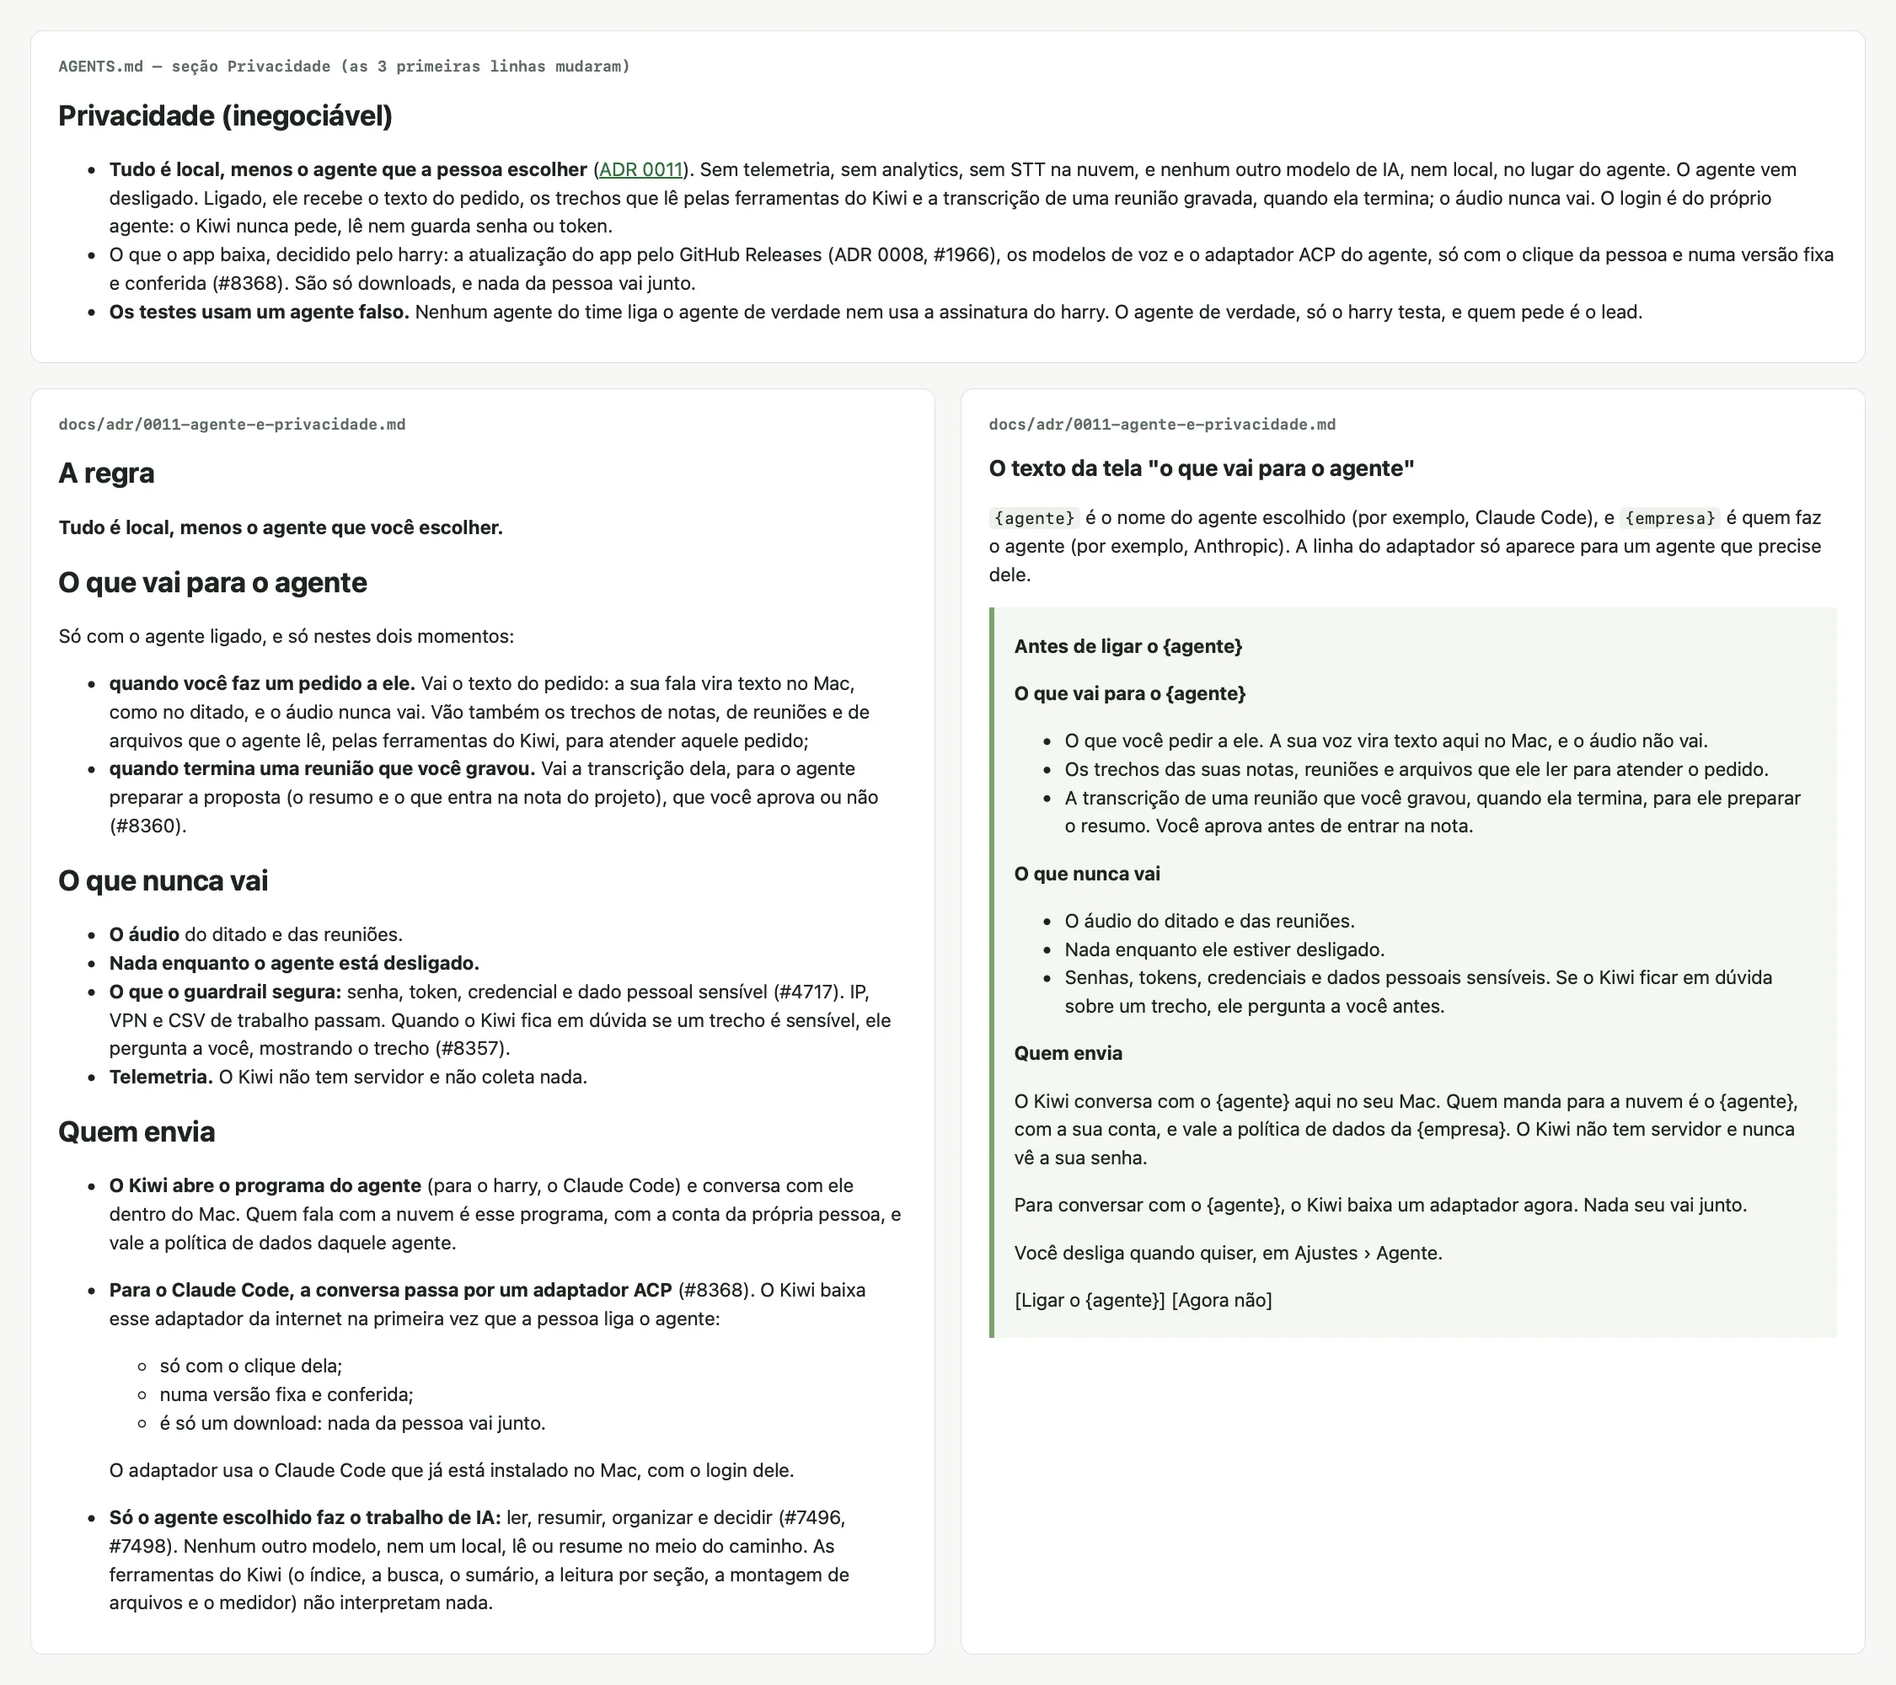
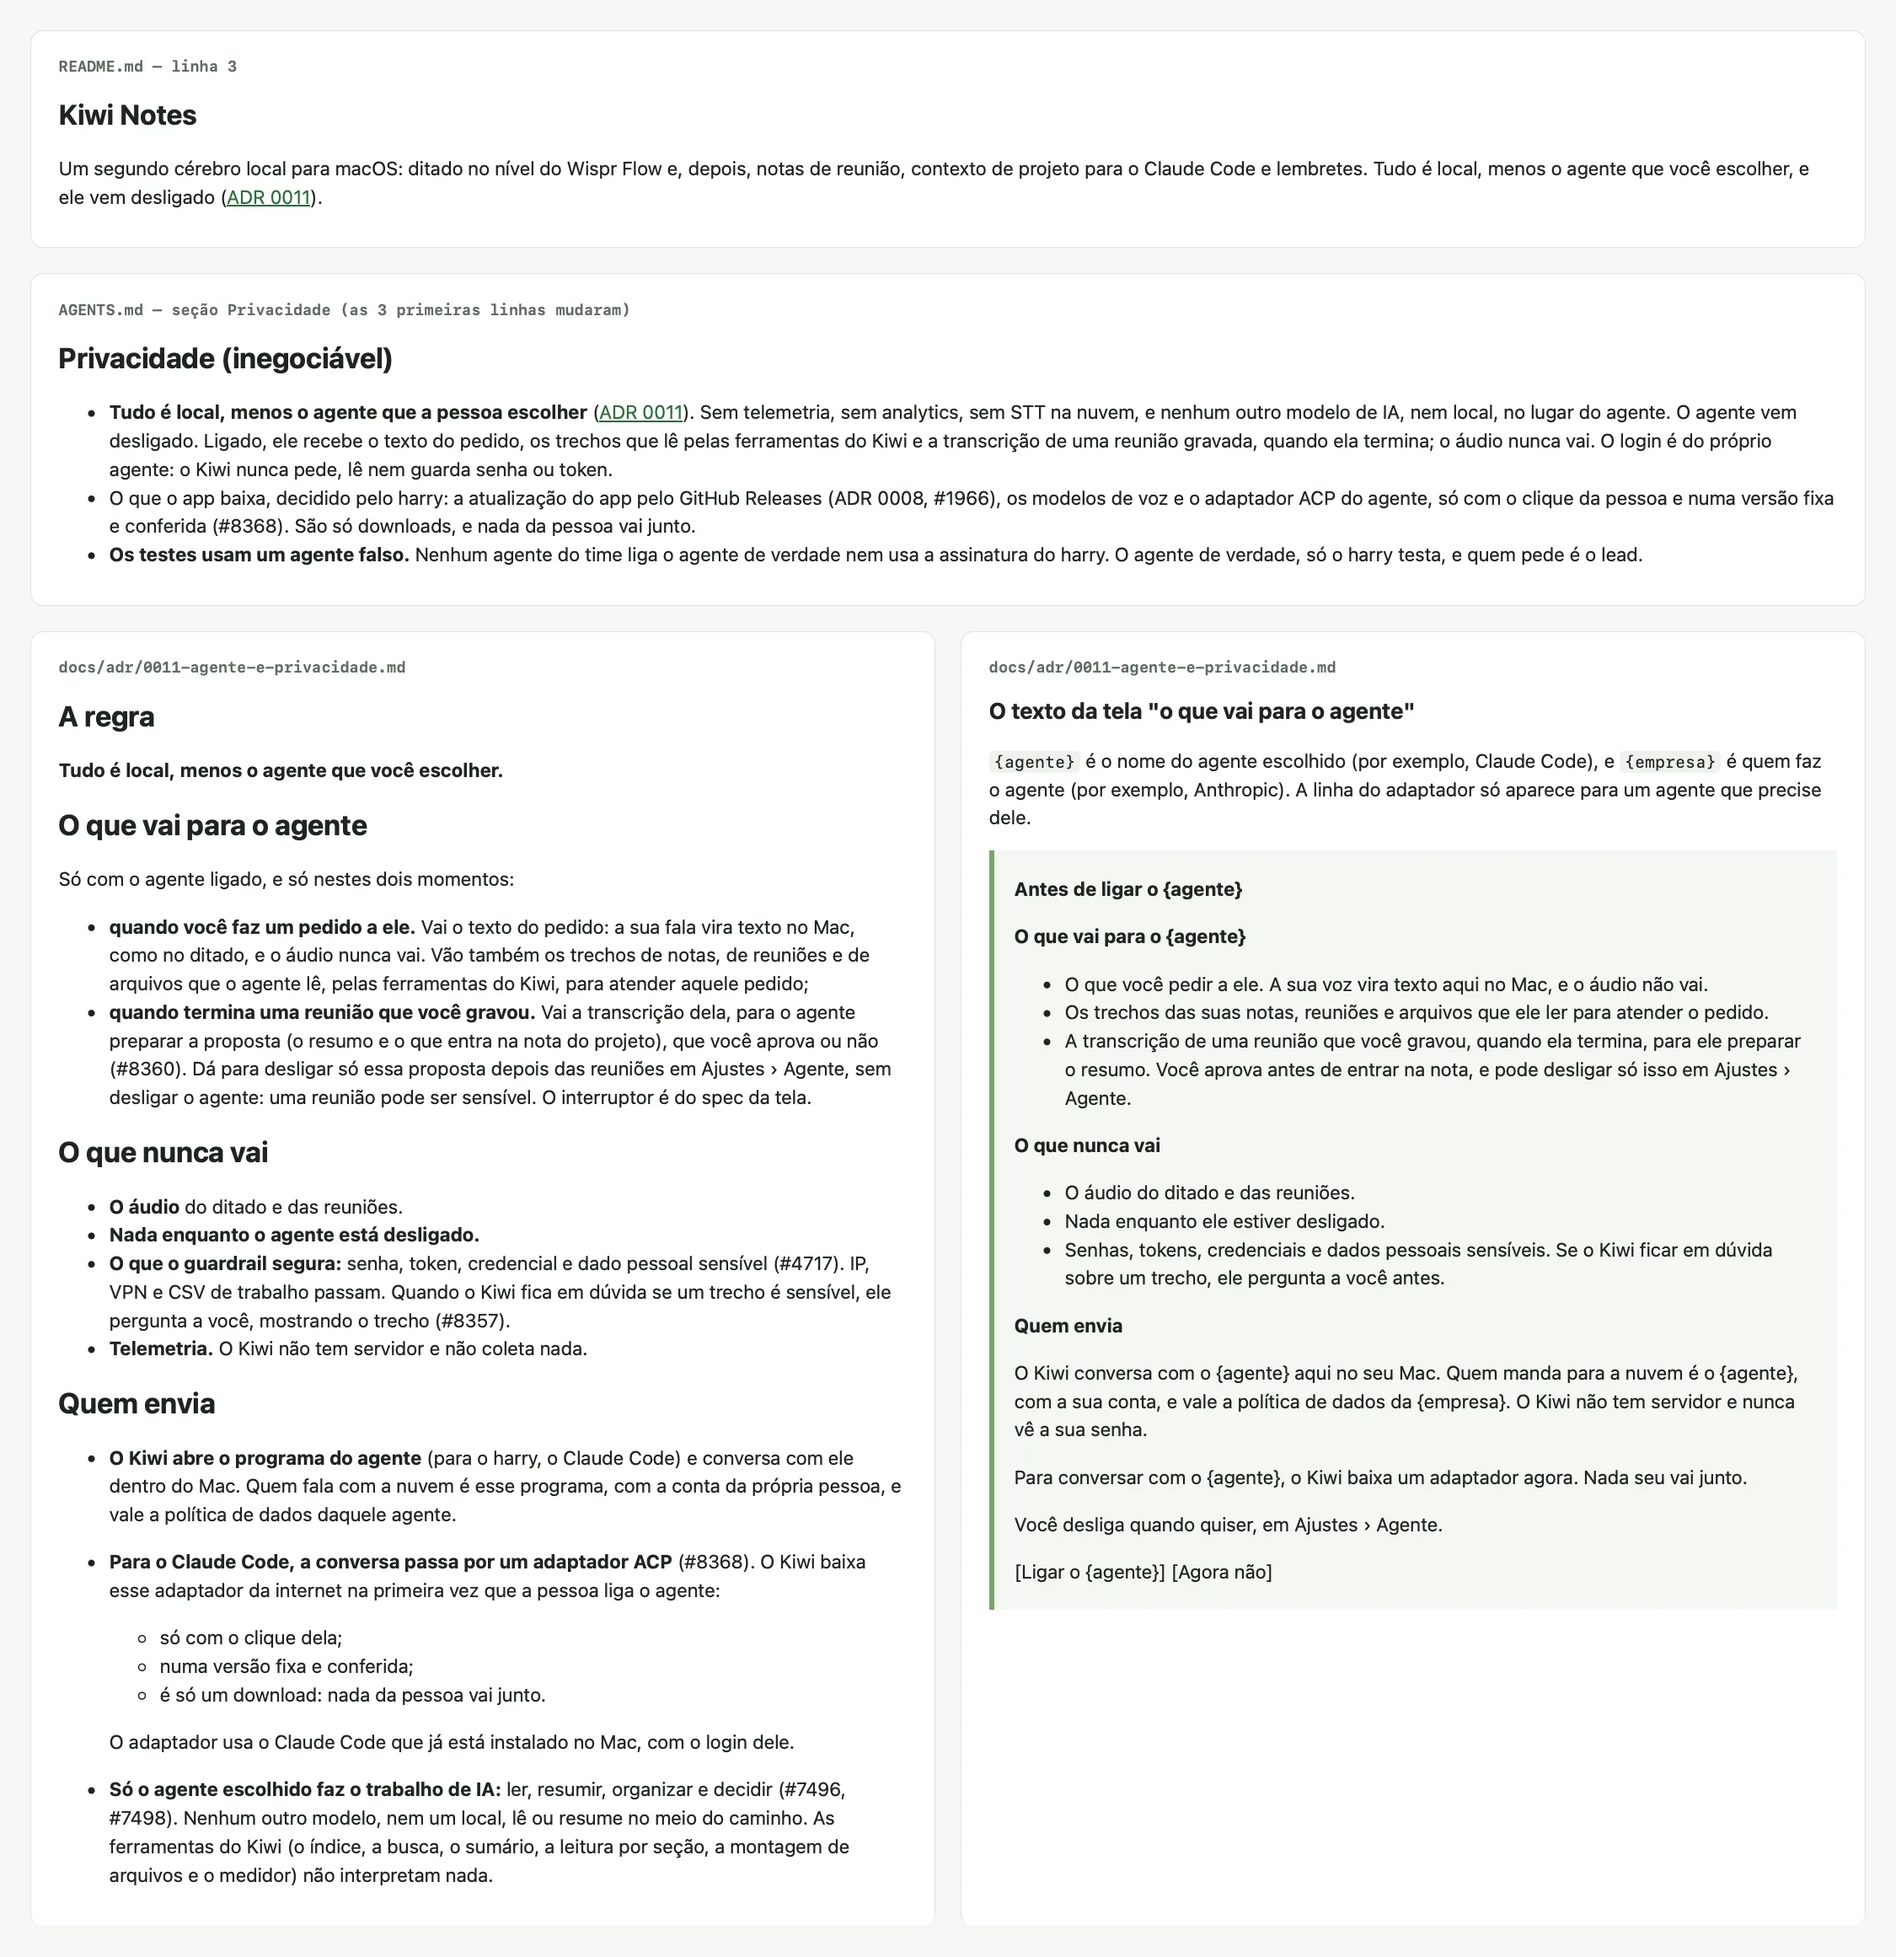
docs: a proposta depois da reunião se desliga sozinha, e o README usa a regra nova (T8371)
Pedido do lead no #8401: no ADR e no texto da tela, dá para desligar só
a proposta depois das reuniões em Ajustes › Agente; o README.md troca a
exceção do Claude Code pela regra do ADR 0011.

Changed region(s): [[0.0311, 0.031, 0.9644, 0.961], [0.8711, 0.372, 0.9644, 0.403]]

diff --git a/docs/adr/0011-agente-e-privacidade.md b/docs/adr/0011-agente-e-privacidade.md
@@ -16,7 +16,7 @@ Então a frase "nada sai do Mac" deixa de ser exata. Antes de qualquer código, 
 ## O que vai para o agente
 Só com o agente ligado, e só nestes dois momentos:
 - **quando você faz um pedido a ele.** Vai o texto do pedido: a sua fala vira texto no Mac, como no ditado, e o áudio nunca vai. Vão também os trechos de notas, de reuniões e de arquivos que o agente lê, pelas ferramentas do Kiwi, para atender aquele pedido;
-- **quando termina uma reunião que você gravou.** Vai a transcrição dela, para o agente preparar a proposta (o resumo e o que entra na nota do projeto), que você aprova ou não (#8360).
+- **quando termina uma reunião que você gravou.** Vai a transcrição dela, para o agente preparar a proposta (o resumo e o que entra na nota do projeto), que você aprova ou não (#8360). Dá para desligar só essa proposta depois das reuniões em Ajustes › Agente, sem desligar o agente: uma reunião pode ser sensível. O interruptor é do spec da tela.
 
 ## O que nunca vai
 - **O áudio** do ditado e das reuniões.
@@ -51,7 +51,7 @@ Só com o agente ligado, e só nestes dois momentos:
 > **O que vai para o {agente}**
 > - O que você pedir a ele. A sua voz vira texto aqui no Mac, e o áudio não vai.
 > - Os trechos das suas notas, reuniões e arquivos que ele ler para atender o pedido.
-> - A transcrição de uma reunião que você gravou, quando ela termina, para ele preparar o resumo. Você aprova antes de entrar na nota.
+> - A transcrição de uma reunião que você gravou, quando ela termina, para ele preparar o resumo. Você aprova antes de entrar na nota, e pode desligar só isso em Ajustes › Agente.
 >
 > **O que nunca vai**
 > - O áudio do ditado e das reuniões.

diff --git a/README.md b/README.md
@@ -1,6 +1,6 @@
 # Kiwi Notes
 
-Um segundo cérebro local para macOS: ditado no nível do Wispr Flow e, depois, notas de reunião, contexto de projeto para o Claude Code e lembretes. Tudo roda no Mac. A única exceção é o Claude Code, a partir da fase 2.
+Um segundo cérebro local para macOS: ditado no nível do Wispr Flow e, depois, notas de reunião, contexto de projeto para o Claude Code e lembretes. Tudo é local, menos o agente que você escolher, e ele vem desligado ([ADR 0011](docs/adr/0011-agente-e-privacidade.md)).
 
 - Spec da fase 1 (ditado): [docs/specs/fase-1-ditado.md](docs/specs/fase-1-ditado.md)
 - Regras para agentes e pessoas: [AGENTS.md](AGENTS.md)
